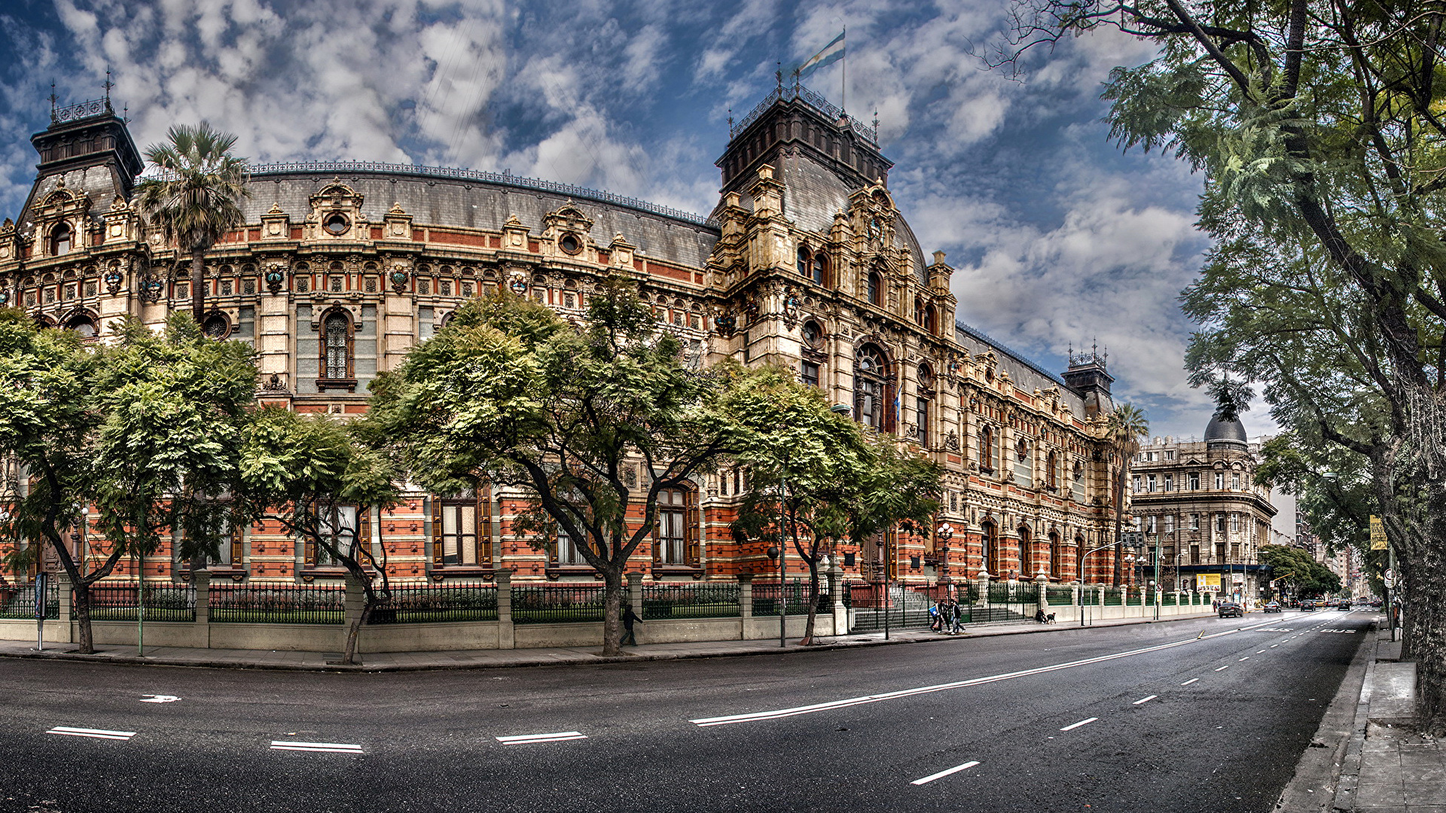
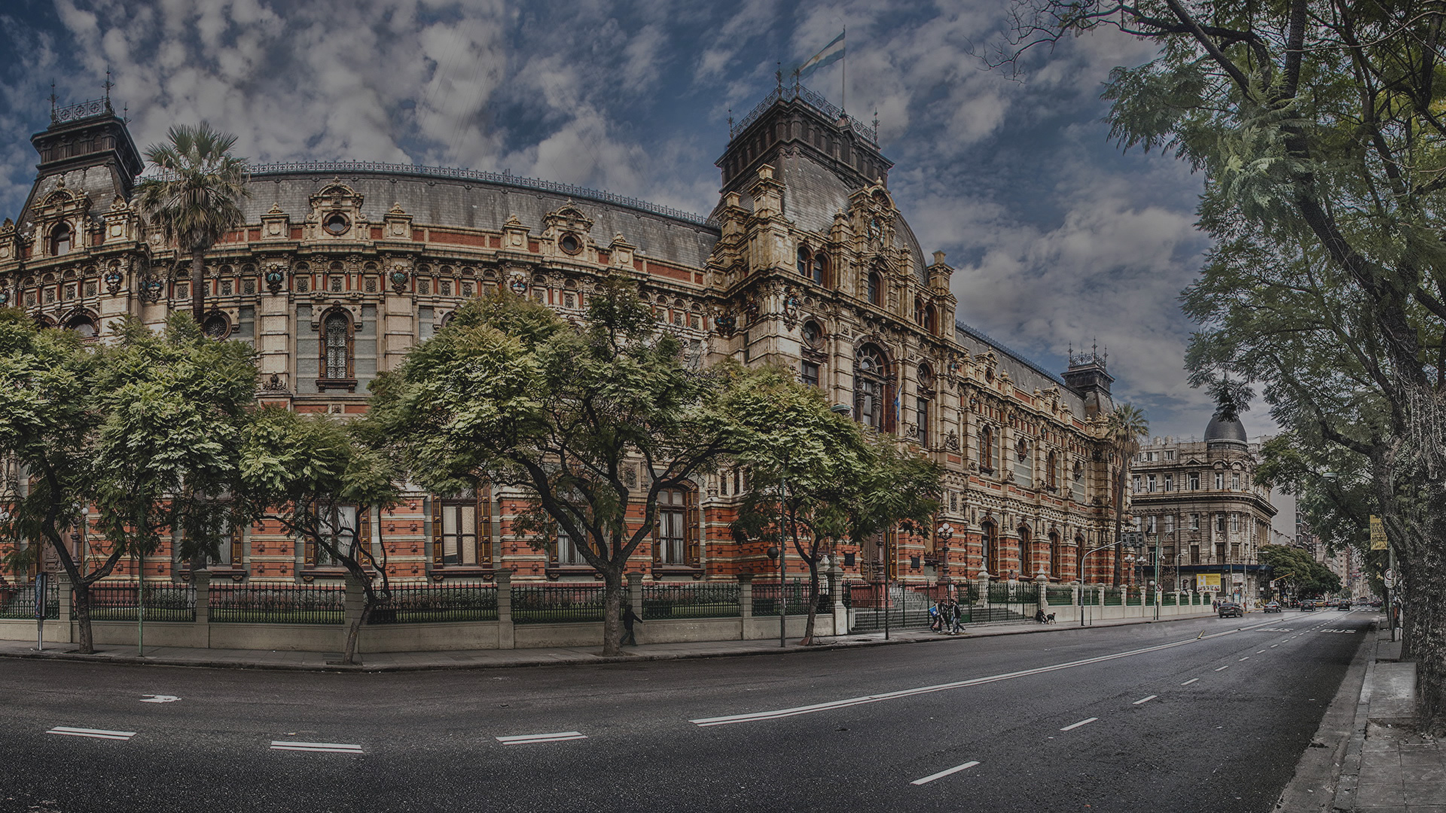
trabajo integrador version final

diff --git a/index.html b/index.html
@@ -46,7 +46,7 @@
   <main>
  
     <div class="fondomain">
-      <img src="./img/ba1.jpg" alt="fondo " width="100%">
+      <img src="./img/ba1.png" alt="fondo " width="100%">
     
 
       
@@ -160,9 +160,9 @@
         </div>
         <div class="col fondohonolulu">
          <h6 class="tituhonolulu">Bs As - Octubre</h6> 
-         <p class="textohonolulu"> Buenos Aires es la provincia y localidad más grande de Argentina, en Estados Unidos, Honolulu es la más sureña entre las principales ciudades estadounidenses. Aunque el nombre de Honolulu se refiere al área urbana en la costa sureste de la isla de Oahu, la ciudad y el condado de Honolulu han formado una ciudad-condado consolidada que cubre toda la ciudad (aproximadamente 600 km2 de superficie).</p>
+         <p class="textohonolulu"> Buenos Aires es la provincia y localidad más grande de Argentina, en Estados Unidos, Honolulu es la más sureña entre las principales ciudades estadounidenses. Aunque el nombre de Honolulu se refiere al área urbana en la costa sureste de la isla de Oahu, la ciudad y el condado de Honolulu han formado una ciudad-condado consolidada que cubre toda la ciudad (aproximadamente 600 kms<sup>2</sup> de superficie).</p>
          <br>
-         <button type="button" class="btn btn-outline-light">Conocé más</button>
+         <button type="button" class="btn btn-outline-light">Conocé más</button>su
         </div> 
       </div>
     </div>
@@ -178,6 +178,66 @@
     </div>
     
   </section>
+  <section>
+  <div class="container">
+    <form class="row g-1 ">
+        <div class="col-3"></div>
+        <div class="col-3">
+            <label for="nombreInput" class="form-label"></label>
+            <input type="text" class="form-control formu1" id="nombreInput" placeholder="Nombre">
+        </div>
+        <div class="col-3">
+            <label for="apelliInput" class="form-label"></label>
+            <input type="text" class="form-control formu1" id="apelliInput" placeholder="Apellido">
+        </div>
+        <div class="col-3"></div>
+        <div class="col-3"></div>
+        <div class="col-6">
+            <label for="comenInput" class="form-label"></label>
+            <textarea  placeholder="Sobre qué querés hablar?" cols="66" rows="5" ></textarea>
+        </div>
+        <div class="col-3"></div>
+        <div class="col-3"></div>
+        <div class="col-6 formu1">Recuerda incluir un título para tu charla.</div>
+        <div class="col-3"></div>
+       
+        <div class="col-3"></div>
+        <div class="col-6 d-grid gap-2">
+          <button class="btn btn-success paraboton" type="submit">Enviar</button>
+          
+        </div>
+        <div class="col-3"></div>
+    </form>
+</div>
+</section>
+<section>
+  <div class="parapie" >
+  <ul class="nav justify-content-center"  >
+    <li class="nav-item parapienav">
+      <a class="nav-link parapienav" aria-current="page" href="#">Preguntas frecuentes</a>
+    </li>
+    <li class="nav-item ">
+      <a class="nav-link parapienav " href="#">Contáctanos</a>
+    </li>
+    <li class="nav-item ">
+      <a class="nav-link parapienav" href="#">Prensa</a>
+    </li>
+    <li class="nav-item ">
+      <a class="nav-link parapienav" href="#">Conferencias</a>
+    </li>
+    <li class="nav-item parapienav">
+      <a class="nav-link parapienav" href="#">Términos y Condiciones</a>
+    </li>
+    <li class="nav-item ">
+      <a class="nav-link parapienav" href="#">Privacidad</a>
+    </li>
+    <li class="nav-item ">
+      <a class="nav-link parapienav" href="#">Estudiantes</a>
+    </li>
+    
+  </ul>
+</div>
+</section>
  <!-- Option 1: Bootstrap Bundle with Popper -->
  <script src="https://cdn.jsdelivr.net/npm/bootstrap@5.0.2/dist/js/bootstrap.bundle.min.js" integrity="sha384-MrcW6ZMFYlzcLA8Nl+NtUVF0sA7MsXsP1UyJoMp4YLEuNSfAP+JcXn/tWtIaxVXM" crossorigin="anonymous"></script>
    

diff --git a/style.css b/style.css
@@ -141,3 +141,24 @@ body{
     background-color: #353A40;
     
 }
+.formu1{
+    font-size: 11px;
+}
+.formu2{
+    font-size: 13px;
+}
+.paraboton{
+    background-color:#96c93e;
+    color: white;
+}
+.parapie{
+    margin-top: 10px;
+    height: 60px;
+    background-color: rgb(2, 2, 65);
+}   
+.parapienav{
+    width: 120px;
+    color: white;
+    font-size: 13px;
+    font-weight: 100;
+}
